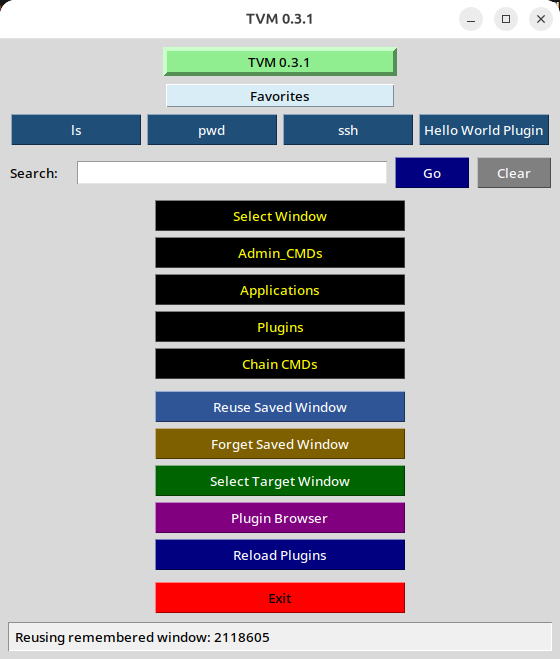
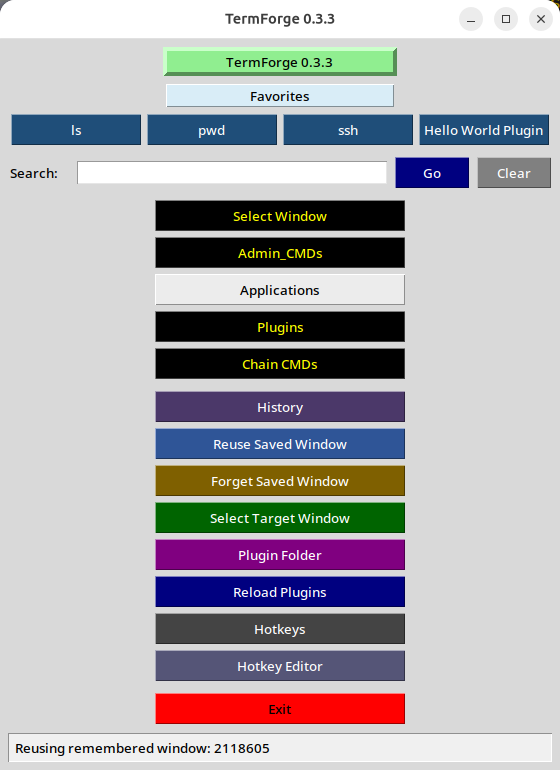
added hotkeys to docs/main.png, examples/config.py

diff --git a/examples/config.py b/examples/config.py
@@ -1,4 +1,4 @@
-# TermFore example configuration
+# TermForge example configuration
 # Copy to: ~/.config/termforge/config.py
 
 debug = {
@@ -19,11 +19,21 @@ terminal = {
 #
 # Placeholders like <name>, <user>, <host>, <path> will prompt for input.
 
+Window = {
+    'server': None,
+    'logs': None,
+}
+
+Hotkeys = {
+    '<ctrl>+<alt>+d': ['Admin_CMDs', 'Deploy'],
+    '<ctrl>+<alt>+l': ['Admin_CMDs', 'Logs'],
+    '<ctrl>+<alt>+p': ['Admin_CMDs', 'pwd'],
+}
+
 Categories = {
     'Select Window': {
         'Select window': [0, 'None'],
     },
-
     'Admin_CMDs': {
         'Deploy': ['chain', [
             ['select_profile', 'server'],
@@ -36,7 +46,7 @@ Categories = {
 
         'Logs': ['chain', [
             ['select_profile', 'logs'],
-            [2, 'tail -f /var/log/syslog'],
+            [2, 'tail -15 /var/log/syslog'],
         ]],
 
         'ls': [2, 'ls'],
@@ -44,8 +54,8 @@ Categories = {
         'pwd': [2, 'pwd'],
         'cd': [2, 'cd <path>'],
         'mkdir': [2, 'mkdir -p <path>'],
-        'ssh': [2, 'ssh <user>@<host>'],
-        'Danger Upgrade': [2, 'sudo apt upgrade -y', {'confirm': True}],
+        'ssh': [2, 'ssh -T <user>@<host>'],
+        'Danger Upgrade': [2, 'sudo apt update -y', {'confirm': True}],
     },
 
     'Applications': {
@@ -60,7 +70,7 @@ Categories = {
     'Chain CMDs': {
         'Quick Test': ['chain', [
             [2, 'pwd'],
-            [2, 'ls']
+            [2, 'ls'],
         ]],
 
         'SSH Prep': ['chain', [
@@ -73,12 +83,22 @@ Categories = {
             [2, 'sudo apt upgrade -y', {'confirm': True}],
         ]],
 
+        'Deploy Shared': ['chain', [
+            ['vars', ['path', 'user', 'host']],
+            ['select_profile', 'server'],
+            [2, 'cd <path>'],
+            ['sleep', 1],
+            [2, 'ssh -T <user>@<host>'],
+            [2, 'echo Deploying from <path>'],
+        ]],
+
         'Shared Test': ['chain', [
             ['vars', ['path']],
             [2, 'cd <path>'],
             [2, 'echo path is <path>'],
         ]],
     }
+
 }
 Favorites = [
     ["Admin_CMDs", "ls"],
@@ -87,3 +107,5 @@ Favorites = [
     ["Plugins", "Hello World Plugin"],
 ]
 
+
+Windows = {'server': 2118605}
